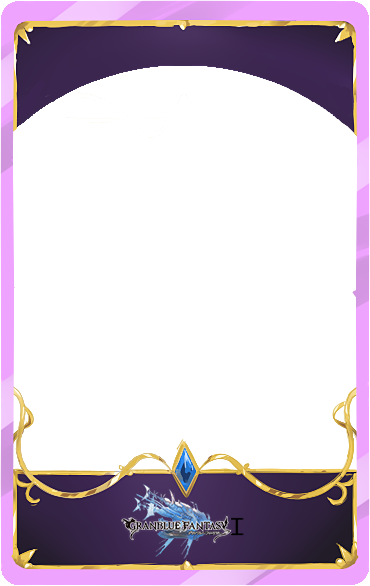
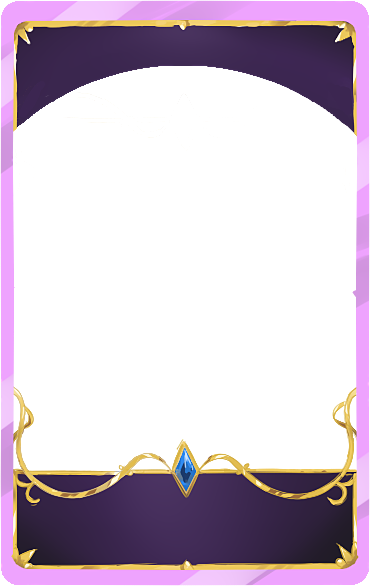
Add Fire Emblem I set

Changed region(s): [[0.327, 0.8294, 0.6541, 0.9522]]

diff --git a/channel_scraper.py b/channel_scraper.py
@@ -1,0 +1,81 @@
+from datetime import datetime
+from logdna import LogDNAHandler
+
+import asyncio
+import boto3
+import discord
+import logging
+import json
+import sys
+
+client = discord.Client()
+
+
+@client.event
+async def on_ready():
+    info = {
+        'id': client.user.id,
+        'username': client.user.name,
+        'time': str(datetime.now())
+    }
+    log.info('Logged in', {'meta': info})
+
+    text_channel = client.get_channel(channel)
+    logs = client.logs_from(text_channel, 1000)
+    cards = []
+    async for message in logs:
+        for attachment in message.attachments:
+            url = attachment['proxy_url']
+            name = attachment['filename'].split('.', 1)[0].replace('_', ' ')
+
+            card = {
+                'image': url,
+                'name': name
+            }
+            cards.append(card)
+
+    dynamodb = boto3.resource("dynamodb", region_name="us-west-1",
+                              endpoint_url="https://dynamodb.us-west-1.amazonaws.com")
+    table = dynamodb.Table(table_name)
+    table.put_item(
+        Item={
+            'rarity': rarity,
+            'cards': cards
+        }
+    )
+    print('Done')
+    info = {
+        'table_name': table_name,
+        'rarity': rarity,
+        'channel': channel
+    }
+    log.info('Added cards to database', {'meta': info})
+
+
+try:
+    if len(sys.argv) != 5:
+        print('USAGE: channel_scraper.py path/to/config channel_id set rarity')
+        exit()
+    config = open(sys.argv[1])
+    config_json = json.load(config)
+    token = config_json['token']
+    key = config_json['ingestion_key']
+
+    # Set up logging
+    log = logging.getLogger('logdna')
+    log.setLevel(logging.INFO)
+    options = {
+        'app': 'Discord Gacha Channel Scraper',
+        'hostname': 'Local Dev'
+    }
+    options['index_meta'] = True
+    handler = LogDNAHandler(key, options)
+    log.addHandler(handler)
+
+    channel = str(sys.argv[2])
+    table_name = str(sys.argv[3])
+    rarity = str(sys.argv[4])
+
+    client.run(token)
+except Exception as e:
+    print(e)

diff --git a/card_creation.py b/card_creation.py
@@ -18,19 +18,19 @@ class Card:
     Attributes:
         image (:obj:`Image`): Completed card image
     """
-    def __init__(self, character, rarity):
+    def __init__(self, character, rarity, set_name):
         foreground = None
 
         if rarity == Rarity.R:
-            foreground = Image.open("./card_borders/r.png")
+            foreground = Image.open("./card_borders/" + set_name + "/r.png")
             background = Image.new("RGBA", character.size, (255, 214, 242))
             background.paste(character, (0, 0), character)
         if rarity == Rarity.SR:
-            foreground = Image.open("./card_borders/sr.png")
+            foreground = Image.open("./card_borders/" + set_name + "/sr.png")
             background = Image.new("RGBA", character.size, (215, 247, 250))
             background.paste(character, (0, 0), character)
         if rarity == Rarity.UR:
-            foreground = Image.open("./card_borders/ur.png")
+            foreground = Image.open("./card_borders/" + set_name + "/ur.png")
             background = character
 
         self.image = Image.new("RGBA", foreground.size)

diff --git a/pack_creation.py b/pack_creation.py
@@ -45,7 +45,7 @@ class Pack:
             curCard["rarity"] = rarity_field
             curCard["id"] = ndx
             self.cards.append(curCard.copy())
-            cards.append(Card(Image.open(BytesIO(resp.content)), rarity))
+            cards.append(Card(Image.open(BytesIO(resp.content)), rarity, table_name))
 
         cards[0].image = cards[0].image.rotate(50, 0, 1)
         cards[1].image = cards[1].image.rotate(25, 0, 1)
